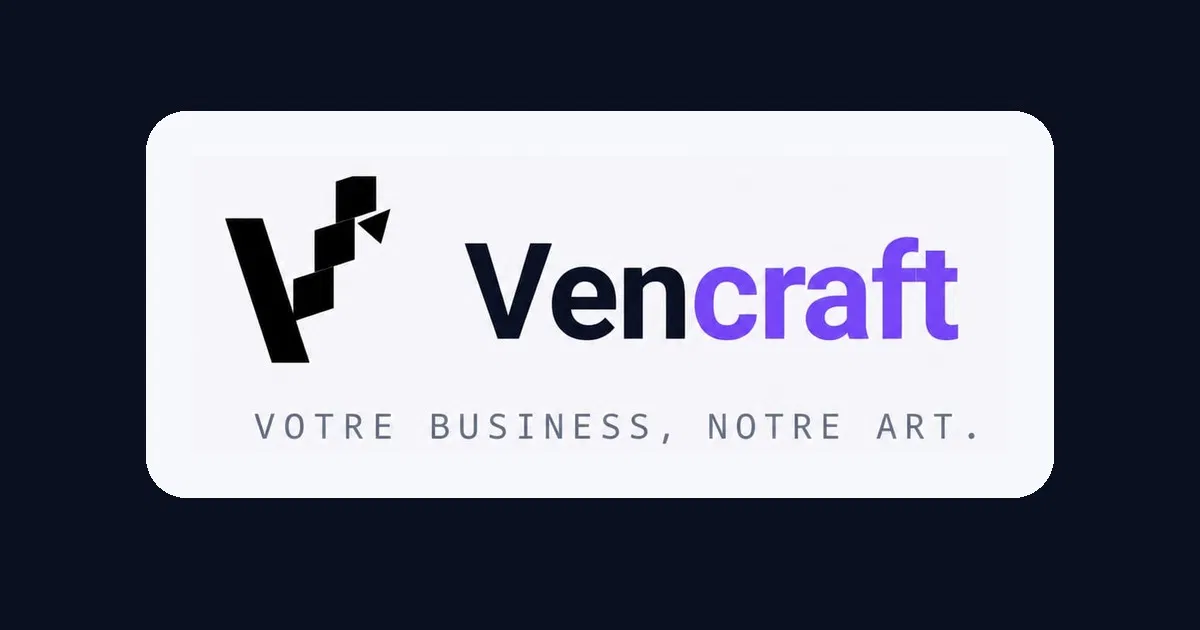
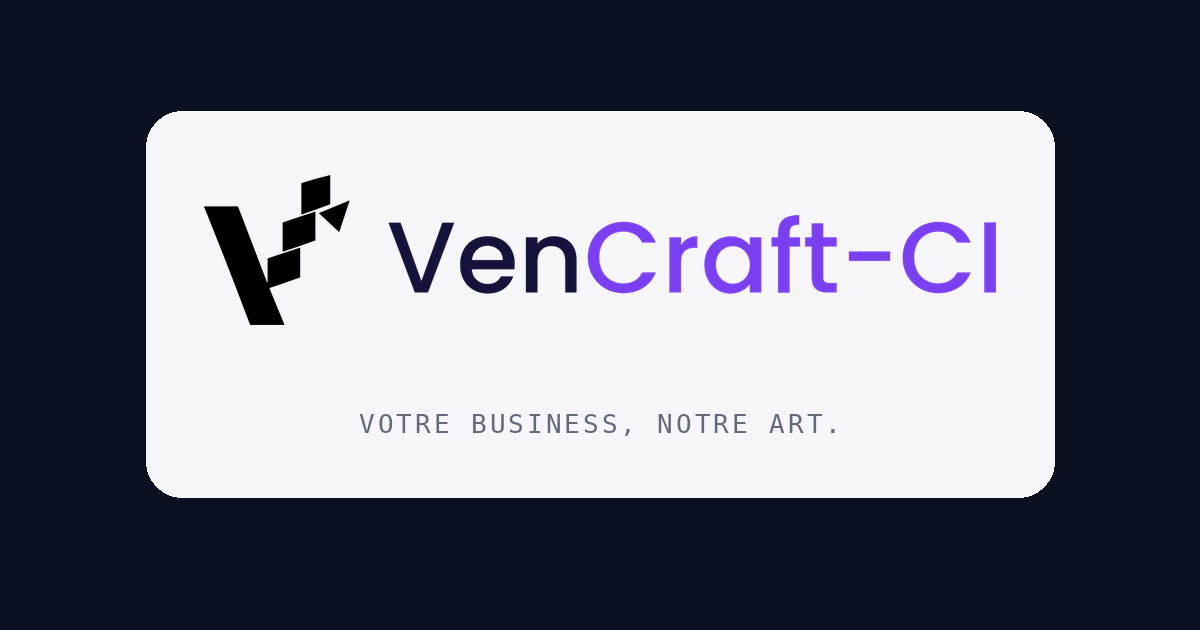
Add files via upload

Changed region(s): [[0.1542, 0.2714, 0.8325, 0.573], [0.2158, 0.6333, 0.8017, 0.6937]]

diff --git a/index.html b/index.html
@@ -17,6 +17,7 @@
 <link rel="stylesheet" href="css/style.css">
 <link rel="stylesheet" href="css/extra.css">
 <link rel="icon" href="images/favicon.png" type="image/png">
+<link rel="apple-touch-icon" href="images/apple-touch-icon.png">
 </head>
 <body>
 
@@ -41,7 +42,7 @@
 
 <nav class="topnav">
   <a href="#hero" class="topnav-logo">
-    <img src="images/logo-wordmark.png" alt="Vencraft-CI — Votre business, notre art">
+    <img src="images/logo-wordmark.png" alt="VenCraft-CI — Votre business, notre art">
   </a>
   <div class="topnav-actions">
     <a href="https://whatsapp.com/channel/0029VbDfOID96H4U1sIm740B" target="_blank" rel="noopener" class="topnav-icon" data-magnetic aria-label="Chaîne WhatsApp">
@@ -289,7 +290,7 @@
 </section>
 
 <footer class="footer">
-  <img src="images/logo-white.png" alt="Vencraft-CI" class="footer-logo-img">
+  <img src="images/logo-white.png" alt="VenCraft-CI" class="footer-logo-img">
   <p class="footer-tagline">Votre business, notre art</p>
   <p class="footer-copy">© 2026 Vencraft-CI — Tous droits réservés</p>
   <p class="footer-email"><a href="mailto:vencraft254@gmail.com">vencraft254@gmail.com</a></p>

diff --git a/css/style.css b/css/style.css
@@ -271,7 +271,7 @@ section, footer {
   box-shadow: 0 10px 30px -12px rgba(28,27,41,0.18), inset 0 1px 0 rgba(255,255,255,0.6);
 }
 
-.topnav-logo img { height: 26px; width: auto; display: block; }
+.topnav-logo img { height: 30px; width: auto; display: block; }
 
 .topnav-actions { display: flex; align-items: center; gap: 8px; }
 
@@ -995,7 +995,7 @@ section, footer {
 
 /* ---- Footer ---- */
 .footer { text-align: center; background: var(--anthracite); color: rgba(255,255,255,0.75); border-radius: var(--rayon-carte) var(--rayon-carte) 0 0; margin-top: 40px; }
-.footer-logo-img { height: 26px; width: auto; margin: 0 auto; }
+.footer-logo-img { height: 40px; width: auto; margin: 0 auto; }
 .footer-tagline { margin-top: 8px; font-size: 0.9rem; color: rgba(255,255,255,0.55); }
 .footer-copy, .footer-email { margin-top: 16px; font-size: 0.85rem; }
 .footer-email a:hover { color: white; }
